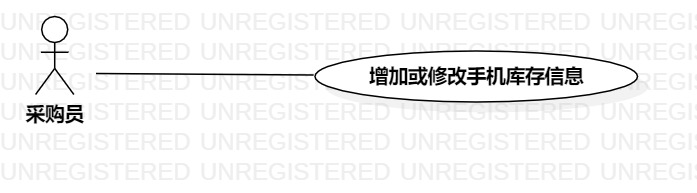
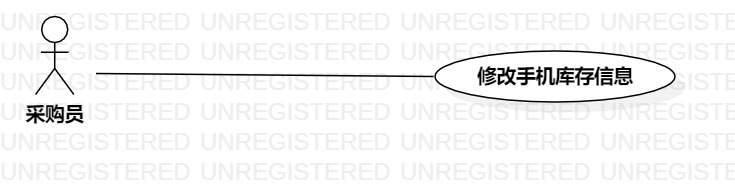
修改了采购的use case

diff --git a/students/1714080902623/lab2.md b/students/1714080902623/lab2.md
@@ -27,7 +27,7 @@
 ## 四、实验结果
 	
 ![手机进销存系统](./Lb2_采购手机.jpg)  
-图一：采购手机，采购员增加或修改库存信息
+图一：采购手机，采购员修改库存信息
 ![手机进销存系统](./Lb2_出售手机.jpg)  
 图二：出售手机，导购员修改库存信息
 
@@ -35,7 +35,7 @@
 
 用例编号  | UC01 | 备注  
 -|:-|-  
-用例名称  | 增加或修改手机库存信息  |   
+用例名称  | 修改手机库存信息  |   
 前置条件  | 采购员登录    | *可选*   
 后置条件  | 采购员进入库存管理页面     | *可选*   
 基本流程  | 1. 采购员点击添加（修改）按钮  |*用例执行成功的步骤*    
